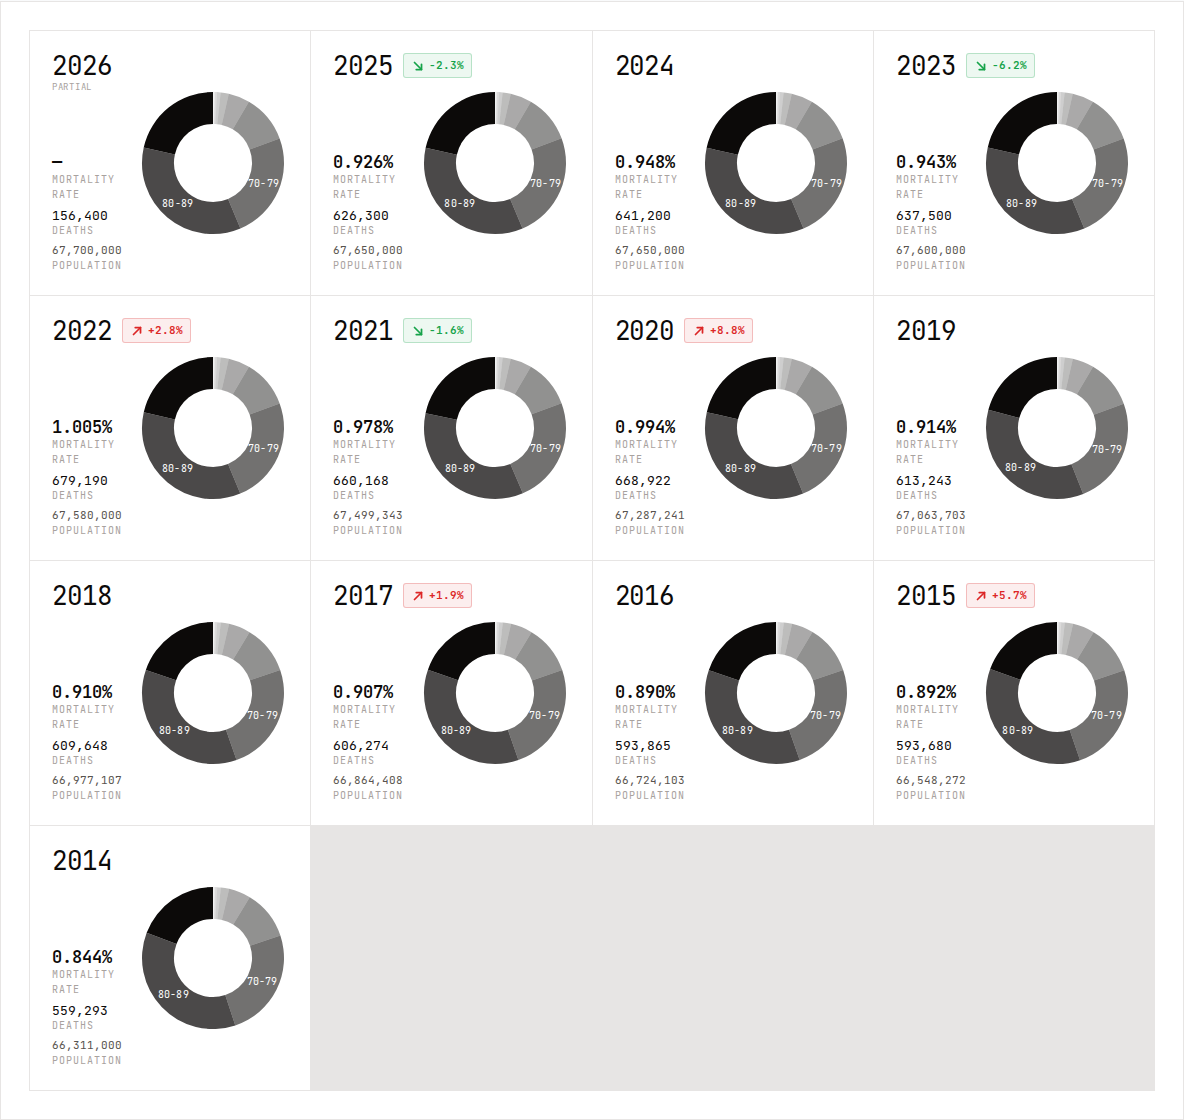
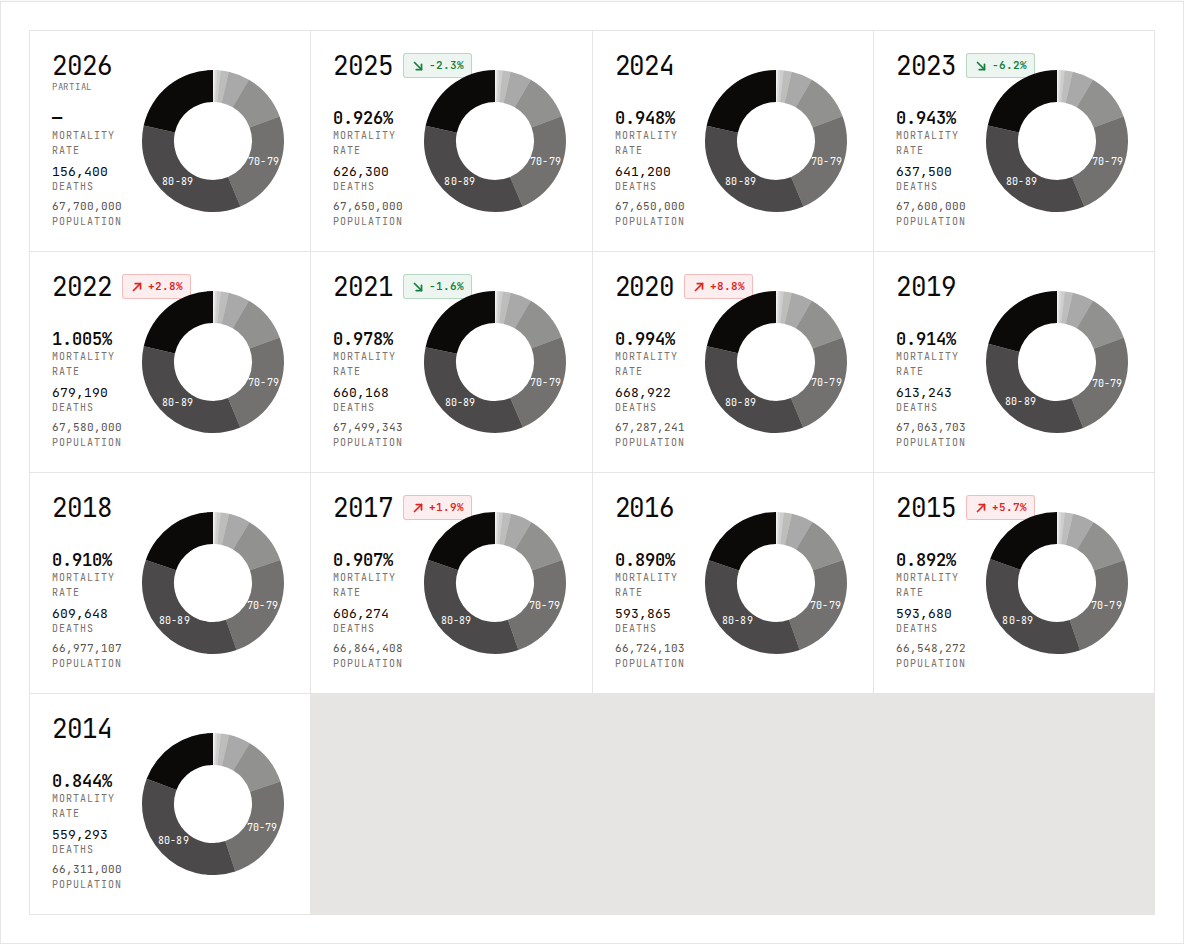
feat(a11y): pass axe-core + WCAG AA contrast on the 4 views (Lot 6 / 6.2)
- Add @user/playwright + e2e/a11y/{overview-grid,year,comparison,distribution}.spec.ts net (0 serious/critical violations on /, /overview, /comparison, /distribution).
- Tighten Graphite + status tokens to AA: text-faint #A8A29E→#78716C, success #16A34A→#15803D, warn #D97706→#B45309; drop unused --color-mute.
- Fix Pill/NavBtn cascade so active state's text-bg actually wins over inactive text-text-dim.
- Add aria-label on year scrubber, role="img" + descriptive aria-label on Trend/Monthly/Distribution SVGs.
- Replace all:unset on OverviewGrid year buttons with explicit resets + visible focus-visible outline.
- Switch Stat delta from hardcoded text-green-600 to semantic text-success.

diff --git a/e2e/a11y/year.spec.ts b/e2e/a11y/year.spec.ts
@@ -1,0 +1,39 @@
+import { expect, test } from "@playwright/test"
+
+import { expectNoBlockingA11yViolations } from "./_helpers"
+
+test.describe("a11y — /overview (Year view)", () => {
+  test("axe-core: no serious/critical violations", async ({ page }) => {
+    await page.goto("/overview")
+    await expect(page.getByTestId("view-year")).toBeVisible({ timeout: 10_000 })
+    await expect(page.getByTestId("year-trend")).toBeVisible()
+    await expect(page.getByTestId("year-monthly")).toBeVisible()
+    await expectNoBlockingA11yViolations(page)
+  })
+
+  test("scrubber: keyboard-navigable range with accessible name", async ({
+    page,
+  }) => {
+    await page.goto("/overview")
+    const scrubber = page.getByTestId("year-scrubber-input")
+    await expect(scrubber).toBeVisible({ timeout: 10_000 })
+
+    // Accessible name must come from the input itself, not just an adjacent label.
+    const ariaLabel = await scrubber.getAttribute("aria-label")
+    expect(ariaLabel ?? "", "scrubber must expose an aria-label").not.toBe("")
+
+    const initialValue = await scrubber.inputValue()
+    await scrubber.focus()
+    await page.keyboard.press("ArrowLeft")
+    const afterLeft = await scrubber.inputValue()
+    expect(afterLeft).not.toBe(initialValue)
+
+    await page.keyboard.press("Home")
+    const min = await scrubber.getAttribute("min")
+    expect(await scrubber.inputValue()).toBe(min)
+
+    await page.keyboard.press("End")
+    const max = await scrubber.getAttribute("max")
+    expect(await scrubber.inputValue()).toBe(max)
+  })
+})

diff --git a/e2e/a11y/distribution.spec.ts b/e2e/a11y/distribution.spec.ts
@@ -1,0 +1,32 @@
+import { expect, test } from "@playwright/test"
+
+import { expectNoBlockingA11yViolations } from "./_helpers"
+
+test.describe("a11y — /distribution", () => {
+  test("axe-core: no serious/critical violations", async ({ page }) => {
+    await page.goto("/distribution")
+    await expect(page.getByTestId("distribution-card")).toBeVisible({
+      timeout: 10_000,
+    })
+    await expectNoBlockingA11yViolations(page)
+  })
+
+  test("AgeRange sliders: distinct labels + keyboard reachable", async ({
+    page,
+  }) => {
+    await page.goto("/distribution")
+    const handles = page.getByTestId("filter-age-range").getByRole("slider")
+    await expect(handles).toHaveCount(2)
+
+    const minLabel = await handles.first().getAttribute("aria-label")
+    const maxLabel = await handles.last().getAttribute("aria-label")
+    expect(minLabel ?? "").not.toBe("")
+    expect(maxLabel ?? "").not.toBe("")
+    expect(minLabel).not.toBe(maxLabel)
+
+    await handles.first().focus()
+    expect(
+      await handles.first().evaluate((el) => el === document.activeElement)
+    ).toBe(true)
+  })
+})

diff --git a/e2e/a11y/_helpers.ts b/e2e/a11y/_helpers.ts
@@ -1,0 +1,28 @@
+import AxeBuilder from "@axe-core/playwright"
+import { expect, type Page } from "@playwright/test"
+
+const BLOCKING_IMPACTS = new Set(["serious", "critical"])
+
+export async function expectNoBlockingA11yViolations(
+  page: Page
+): Promise<void> {
+  const results = await new AxeBuilder({ page })
+    .withTags(["wcag2a", "wcag2aa", "wcag21a", "wcag21aa"])
+    .analyze()
+
+  const blocking = results.violations.filter(
+    (v) => v.impact && BLOCKING_IMPACTS.has(v.impact)
+  )
+
+  const summary = blocking
+    .map(
+      (v) =>
+        `[${v.impact}] ${v.id}: ${v.help}\n  ${v.nodes
+          .slice(0, 3)
+          .map((n) => n.target.join(" "))
+          .join("\n  ")}`
+    )
+    .join("\n\n")
+
+  expect(blocking, `Blocking axe violations:\n${summary}`).toEqual([])
+}

diff --git a/e2e/a11y/comparison.spec.ts b/e2e/a11y/comparison.spec.ts
@@ -1,0 +1,14 @@
+import { expect, test } from "@playwright/test"
+
+import { expectNoBlockingA11yViolations } from "./_helpers"
+
+test.describe("a11y — /comparison", () => {
+  test("axe-core: no serious/critical violations", async ({ page }) => {
+    await page.goto("/comparison")
+    await expect(page.getByTestId("comparison-picker")).toBeVisible({
+      timeout: 10_000,
+    })
+    await expect(page.getByTestId("comparison-compare")).toBeVisible()
+    await expectNoBlockingA11yViolations(page)
+  })
+})

diff --git a/e2e/a11y/overview-grid.spec.ts b/e2e/a11y/overview-grid.spec.ts
@@ -1,0 +1,14 @@
+import { expect, test } from "@playwright/test"
+
+import { expectNoBlockingA11yViolations } from "./_helpers"
+
+test.describe("a11y — / (OverviewGrid)", () => {
+  test("axe-core: no serious/critical violations", async ({ page }) => {
+    await page.goto("/")
+    await expect(page.getByRole("heading", { level: 1 })).toBeVisible()
+    await expect(page.locator("[data-year]").first()).toBeVisible({
+      timeout: 10_000,
+    })
+    await expectNoBlockingA11yViolations(page)
+  })
+})

diff --git a/src/components/charts/Distribution.tsx b/src/components/charts/Distribution.tsx
@@ -83,9 +83,18 @@ const Distribution = ({
 
   const useVerticalXLabels = series.length > VERTICAL_X_LABEL_THRESHOLD
 
+  const yearStart = series[0]?.year
+  const yearEnd = series[series.length - 1]?.year
+  const ariaLabel =
+    yearStart != null && yearEnd != null
+      ? `${labels.deathsCount} · ${yearStart}–${yearEnd}`
+      : labels.deathsCount
+
   return (
     <div ref={containerRef} className="relative w-full">
       <svg
+        role="img"
+        aria-label={ariaLabel}
         width={width}
         height={height}
         style={{ display: "block", overflow: "visible" }}

diff --git a/src/components/charts/Trend.tsx b/src/components/charts/Trend.tsx
@@ -78,9 +78,18 @@ const Trend = ({
     hoveredYear == null ? -1 : years.findIndex((y) => y.year === hoveredYear)
   const hovered = hoveredIndex >= 0 ? years[hoveredIndex] : null
 
+  const yearStart = years[0]?.year
+  const yearEnd = years[years.length - 1]?.year
+  const ariaLabel =
+    yearStart != null && yearEnd != null
+      ? `${labels.mortalityRate} · ${yearStart}–${yearEnd}`
+      : labels.mortalityRate
+
   return (
     <div ref={containerRef} className="relative w-full">
       <svg
+        role="img"
+        aria-label={ariaLabel}
         width={width}
         height={height}
         style={{ display: "block", overflow: "visible" }}

diff --git a/src/components/charts/Monthly.tsx b/src/components/charts/Monthly.tsx
@@ -110,9 +110,17 @@ const Monthly = ({
       ? null
       : (hoveredSeries.values[hovered.month] ?? null)
 
+  const labelYears = isSingle ? series.slice(-1).map((s) => s.year) : selected
+  const ariaLabel =
+    labelYears.length > 0
+      ? `${labels.deathsCount} · ${labelYears.join(", ")}`
+      : labels.deathsCount
+
   return (
     <div ref={containerRef} className="relative w-full">
       <svg
+        role="img"
+        aria-label={ariaLabel}
         width={width}
         height={height}
         style={{ display: "block", overflow: "visible" }}

diff --git a/src/components/atoms/NavBtn.tsx b/src/components/atoms/NavBtn.tsx
@@ -21,14 +21,15 @@ type NavBtnProps = AsButton | AsLink
 
 const base =
   "font-mono text-[11.5px] tracking-[0.08em] uppercase px-[14px] py-[8px] " +
-  "border border-transparent bg-transparent cursor-pointer transition-all duration-200 " +
-  "text-text-dim hover:text-text"
+  "border border-transparent cursor-pointer transition-all duration-200"
+
+const inactiveCls = "bg-transparent text-text-dim hover:text-text"
 
 const activeCls = "text-text border-border bg-surface"
 
 const NavBtn = (props: NavBtnProps) => {
   const { active, className, children, ...rest } = props
-  const cls = [base, active ? activeCls : "", className ?? ""]
+  const cls = [base, active ? activeCls : inactiveCls, className ?? ""]
     .filter(Boolean)
     .join(" ")
 

diff --git a/src/styles/tailwind.css b/src/styles/tailwind.css
@@ -6,16 +6,15 @@
   --color-border: #E7E5E4;
   --color-text: #0C0A09;
   --color-text-dim: #57534E;
-  --color-text-faint: #A8A29E;
+  --color-text-faint: #78716C;
   --color-accent: #0C0A09;
   --color-accent-soft: #E7E5E4;
   --color-male: #3B82F6;
   --color-female: #EC4899;
   --color-grid: #F1EFEE;
   --color-danger: #DC2626;
-  --color-warn: #D97706;
-  --color-success: #16A34A;
-  --color-mute: #78716C;
+  --color-warn: #B45309;
+  --color-success: #15803D;
 
   --font-display: var(--font-inter-tight), var(--font-inter), -apple-system, sans-serif;
   --font-body: var(--font-inter), -apple-system, sans-serif;

diff --git a/src/components/atoms/Pill.tsx b/src/components/atoms/Pill.tsx
@@ -21,7 +21,9 @@ type PillProps = AsButton | AsLink
 
 const base =
   "font-mono text-[10.5px] tracking-[0.08em] uppercase px-[9px] py-[5px] " +
-  "border cursor-pointer transition-all duration-150 " +
+  "border cursor-pointer transition-all duration-150"
+
+const inactiveCls =
   "border-border bg-surface text-text-dim " +
   "hover:text-text hover:border-text-faint"
 
@@ -29,7 +31,7 @@ const activeCls = "bg-text text-bg border-text hover:text-bg hover:border-text"
 
 const Pill = (props: PillProps) => {
   const { active, className, children, ...rest } = props
-  const cls = [base, active ? activeCls : "", className ?? ""]
+  const cls = [base, active ? activeCls : inactiveCls, className ?? ""]
     .filter(Boolean)
     .join(" ")
 

diff --git a/__tests__/styles/theme-tokens.test.ts b/__tests__/styles/theme-tokens.test.ts
@@ -33,15 +33,14 @@ describe("@theme tokens (Graphite palette + modern typography)", () => {
     "--color-border": "#E7E5E4",
     "--color-text": "#0C0A09",
     "--color-text-dim": "#57534E",
-    "--color-text-faint": "#A8A29E",
+    "--color-text-faint": "#78716C",
     "--color-accent": "#0C0A09",
     "--color-accent-soft": "#E7E5E4",
     "--color-male": "#3B82F6",
     "--color-female": "#EC4899",
     "--color-grid": "#F1EFEE",
     "--color-danger": "#DC2626",
-    "--color-warn": "#D97706",
-    "--color-mute": "#78716C",
+    "--color-warn": "#B45309",
   }
 
   for (const [name, expected] of Object.entries(graphite)) {